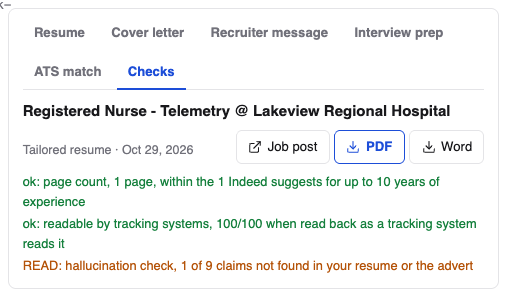
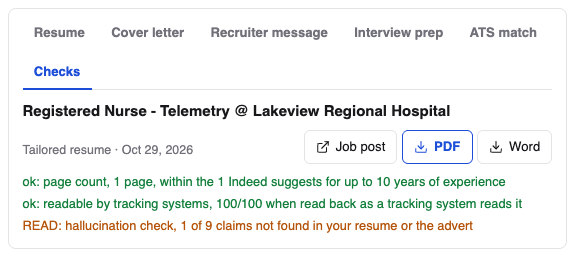
fix: Resume page preview uses the whole right side (see docs/CHANGELOG.md)

diff --git a/jobdork/data/dashboard.html b/jobdork/data/dashboard.html
@@ -112,7 +112,10 @@ nav .item:hover .info,nav .item:focus-visible .info{opacity:.9}
 main{padding:1.5rem 1.75rem;min-width:0}
 /* The Dashboard uses the whole width; pages of forms and reading keep a
    measure that is comfortable to read. */
-main > section:not(#view-scan):not(#view-settings):not(#view-setup){max-width:1060px}
+main > section:not(#view-scan):not(#view-settings):not(#view-setup):not(#view-resume){max-width:1060px}
+/* The Resume page's preview takes the room a wide window has. */
+#view-resume{max-width:1600px}
+#resumeinfo code{overflow-wrap:anywhere}
 h2{font-size:1.05rem;margin:0 0 .35rem}
 .bar{display:flex;gap:.5rem;flex-wrap:wrap;align-items:center;margin-bottom:1rem}
 /* The job post search takes the room left on its row, so a typed company
@@ -628,7 +631,7 @@ button.danger:hover:not(:disabled){background:var(--bad);color:var(--bg)}
 .rcard .meter i.mid{background:var(--warn)}.rcard .meter i.low{background:var(--bad)}
 .rcard.add{align-items:center;justify-content:center;border-style:dashed;color:var(--accent);text-align:center}
 .rcard.add .plus{font-size:1.6rem;line-height:1}
-.rpanes{display:grid;grid-template-columns:minmax(0,1fr) minmax(0,1.05fr);gap:1.1rem;align-items:start}
+.rpanes{display:grid;grid-template-columns:minmax(0,1fr) minmax(0,1.4fr);gap:1.1rem;align-items:start}
 @media (max-width:1150px){.rpanes{grid-template-columns:minmax(0,1fr)}.rpreview{order:-1}}
 .rpreview{position:sticky;top:1rem;max-height:calc(100vh - 2rem);overflow:auto;margin-top:1.25rem}
 .rptabs{display:flex;gap:.25rem;align-items:center;border-bottom:1px solid var(--line);margin:-.2rem 0 .55rem;flex-wrap:wrap}
@@ -638,7 +641,8 @@ button.danger:hover:not(:disabled){background:var(--bad);color:var(--bg)}
 .rptabs [data-rtab]:focus-visible{outline:2px solid var(--accent)}
 .rpact{margin-left:auto;display:flex;gap:.3rem;flex-wrap:wrap}
 .rp-head{display:flex;gap:.5rem;align-items:baseline;flex-wrap:wrap;margin-bottom:.5rem}
-.rpreview .pdfview{height:68vh}
+/* As tall as the window, less the preview's tabs and title. */
+.rpreview .pdfview{height:calc(100vh - 9.5rem);min-height:24rem}
 /* How a tracking system reads the resume (search/readable.py). */
 #resume-readable .rhead{display:flex;align-items:baseline;gap:.6rem;flex-wrap:wrap}
 #resume-readable .rscore{font-weight:700;font-size:1.05rem}
@@ -5764,7 +5768,8 @@ async function previewPdf(path, title) {
   if (!f.ok) { $('rp-doc').innerHTML = `<p class="err">${esc(cap(await f.text()))}</p>`; return; }
   if (rpUrl) URL.revokeObjectURL(rpUrl);
   rpUrl = URL.createObjectURL(new Blob([await f.blob()], {type: 'application/pdf'}));
-  $('rp-doc').innerHTML = `<iframe class="pdfview" src="${rpUrl}" title="${esc(title)}"></iframe>`;
+  // The page at the preview's width, without the viewer's page list beside it.
+  $('rp-doc').innerHTML = `<iframe class="pdfview" src="${rpUrl}#navpanes=0&view=FitH" title="${esc(title)}"></iframe>`;
 }
 
 async function drawPreview() {

diff --git a/docs/CHANGELOG.md b/docs/CHANGELOG.md
@@ -6,6 +6,17 @@ it and into an entry when the work is done.
 
 ---
 
+## Changed — 2026-10-29 — The Resume page's preview uses the whole right side
+
+On a wide window the Resume page kept to 1060 pixels and its PDF to 68% of
+the window's height, leaving a band of blank page. The page now widens to
+1600 pixels, the preview takes the larger share of it, and the PDF is as tall
+as the window less the preview's tabs. The PDF opens fitted to the
+preview's width without the viewer's page list beside it, and a long
+*Stored at* path wraps instead of running under the preview.
+
+---
+
 ## Added — 2026-10-29 — A job post's documents beside its tailored resume
 
 On the Resume page, a tailored resume's preview now has a tab for each of

diff --git a/guide/docs/resume.md b/guide/docs/resume.md
@@ -25,7 +25,9 @@ tracking system reads it; for a tailored one, every check its tab shows.
 Your resume's preview has **The text it reads**: what the fit score and the
 AI were given from the file.
 A tailored resume's preview has **Job post** (its window), **PDF** and
-**Word**. On a narrow window the preview moves above the rest.
+**Word**. The preview takes the right side of the page, as wide as the
+window allows and as tall as the window, so a page reads at full size. On a
+narrow window it moves above the rest.
 
 A tailored resume's preview also has a tab for each of its job post's other
 documents, so everything for one application is in one place: **Cover
